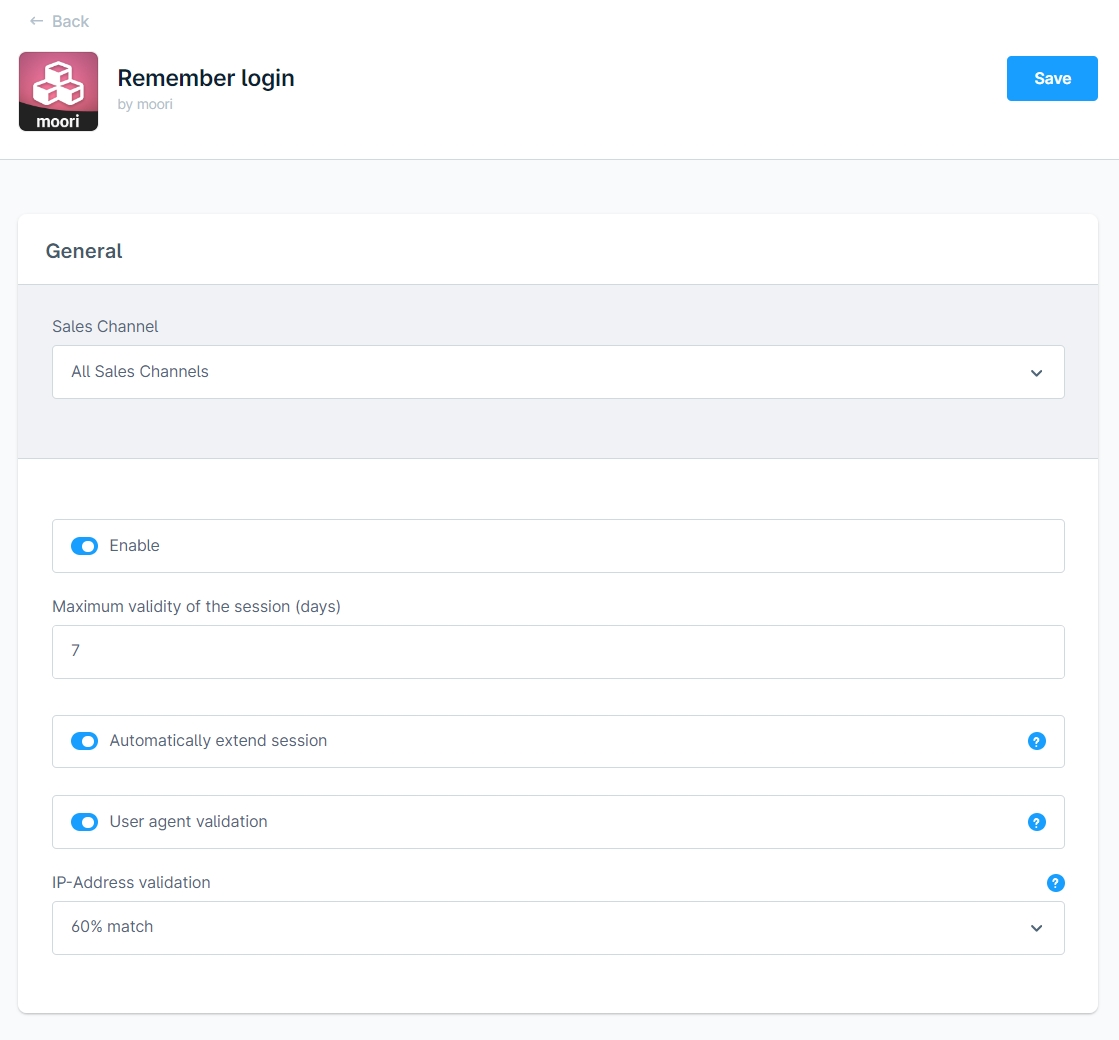
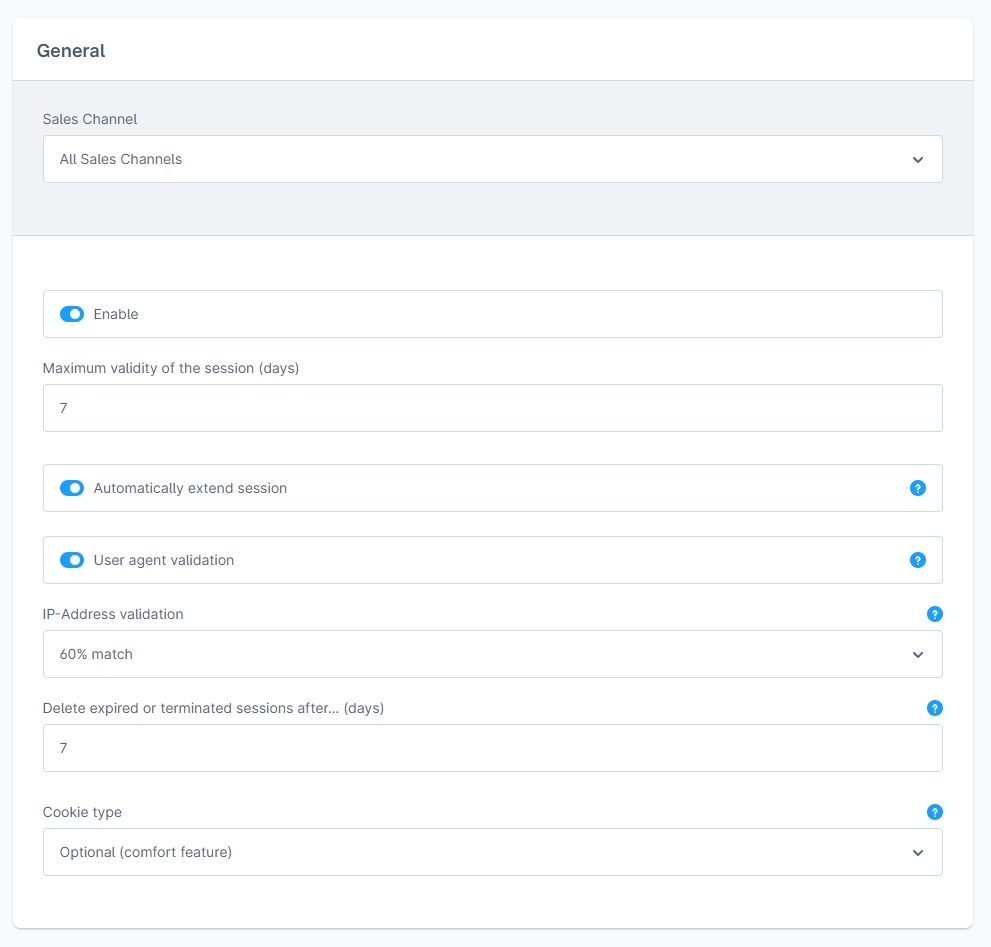
add customer session plugin

diff --git a/docs-source/plugin/MoorlCustomerSession/index.md b/docs-source/plugin/MoorlCustomerSession/index.md
@@ -21,6 +21,8 @@ Du erreichst die Konfiguration über "Erweiterungen" -> "Meine Erweiterungen" ->
 - Sitzung automatisch verlängern: Die Gültigkeit des Logins wird automatisch um x Tage verlängert
 - Überprüfung des User-Agents: Überprüft die Browser-Informationen des Kunden, sofern diese abweichen ist kein automatischer Login möglich. Dies kann z.B. bei einem Update des Browsers der Fall sein
 - Überprüfung der IP-Adresse: Überprüft die IP-Adresse des Kunden beim automatischen Login. Sofern die IP-Adresse von der Regel abweicht, ist kein automatischer Login möglich
+- Abgelaufene oder beendete Sitzungen löschen nach...: Automatische Löschung wird als geplante Aufgabe (Scheduled Task) ausgeführt. Manuelle Löschung als CLI Befehl "moorl-customer-session:clean-up"
+- Typ des Cookies: Auswahl zwischen "Optional (Komfortfunktion)" und "Essenziell (Technisch erforderlich)"
 
 ## Ansicht im Storefront
 
@@ -35,6 +37,10 @@ Eingeklappter Bereich in der Account-Übersicht
 ![](images/customer-session-03.jpg)
 
 Ausgeklappt - hier können aktive Logins entfernt werden, das gilt auch geräteübergreifend.
+
+![](images/customer-session-05.jpg)
+
+Cookie box - wenn Cookie Typ auf "Optional (Komfortfunktion)" gesetzt ist und der Benutzer dem Cookie nicht zugestimmt hat.
 
 ## Hinweise zur Sicherheit
 

diff --git a/docs-source/plugin/MoorlCustomerSession/index.en.md b/docs-source/plugin/MoorlCustomerSession/index.en.md
@@ -21,6 +21,8 @@ You can access the configuration via "Extensions" -> "My extensions" -> "Remembe
 - Automatically extend session: The validity of the login is automatically extended by x days
 - Check user agent: Checks the customer's browser information, if this differs no automatic login is possible. This may be the case if the browser is updated, for example
 - Checking the IP address: Checks the customer's IP address during automatic login. If the IP address deviates from the rule, automatic login is not possible
+- Delete expired or terminated sessions after...: Automatic deletion is executed as a scheduled task. Manual deletion as CLI command "moorl-customer-session:clean-up"
+- Cookie type: Chose between "Optional (comfort feature)" and "Required (technically necessary)"
 
 ## View in the storefront
 
@@ -35,6 +37,10 @@ Collapsed area in the account overview
 ![](images/customer-session-03.jpg)
 
 Unfolded - active logins can be removed here, this also applies across devices.
+
+![](images/customer-session-05.jpg)
+
+Cookie box - if the cookie type is set to "Optional (comfort feature)" and not accepted by the user.
 
 ## Notes on security
 
